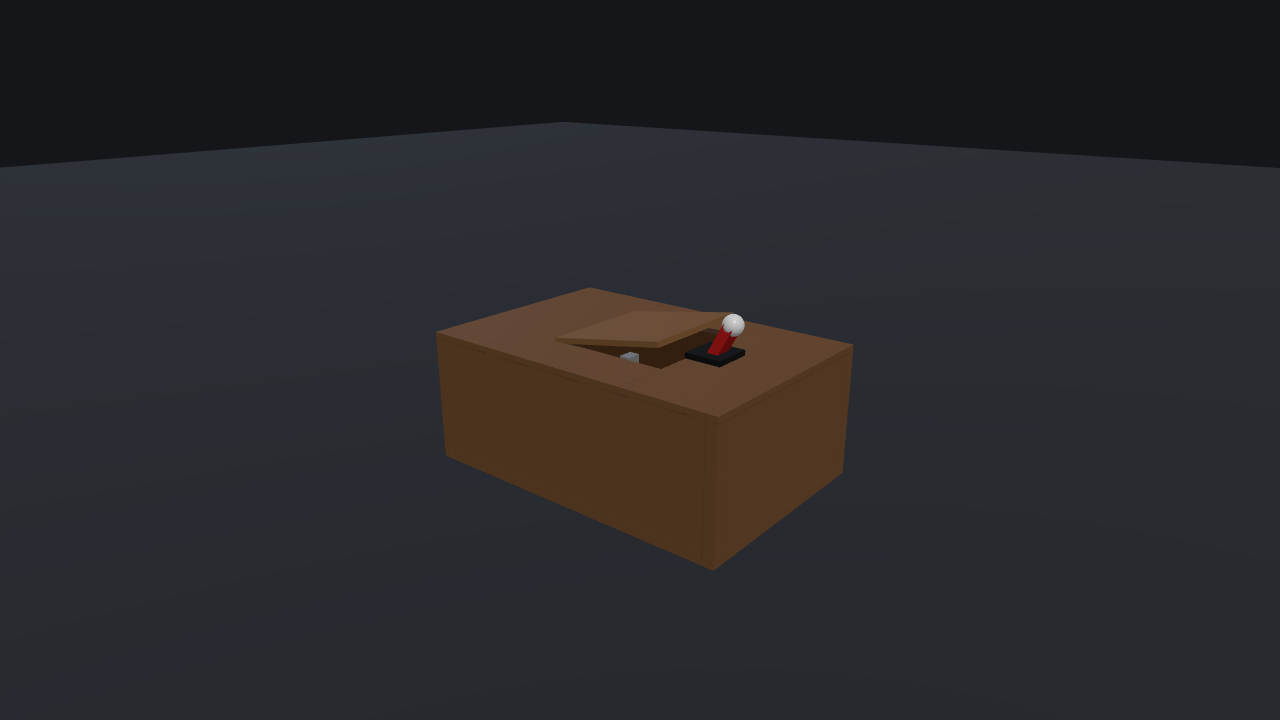
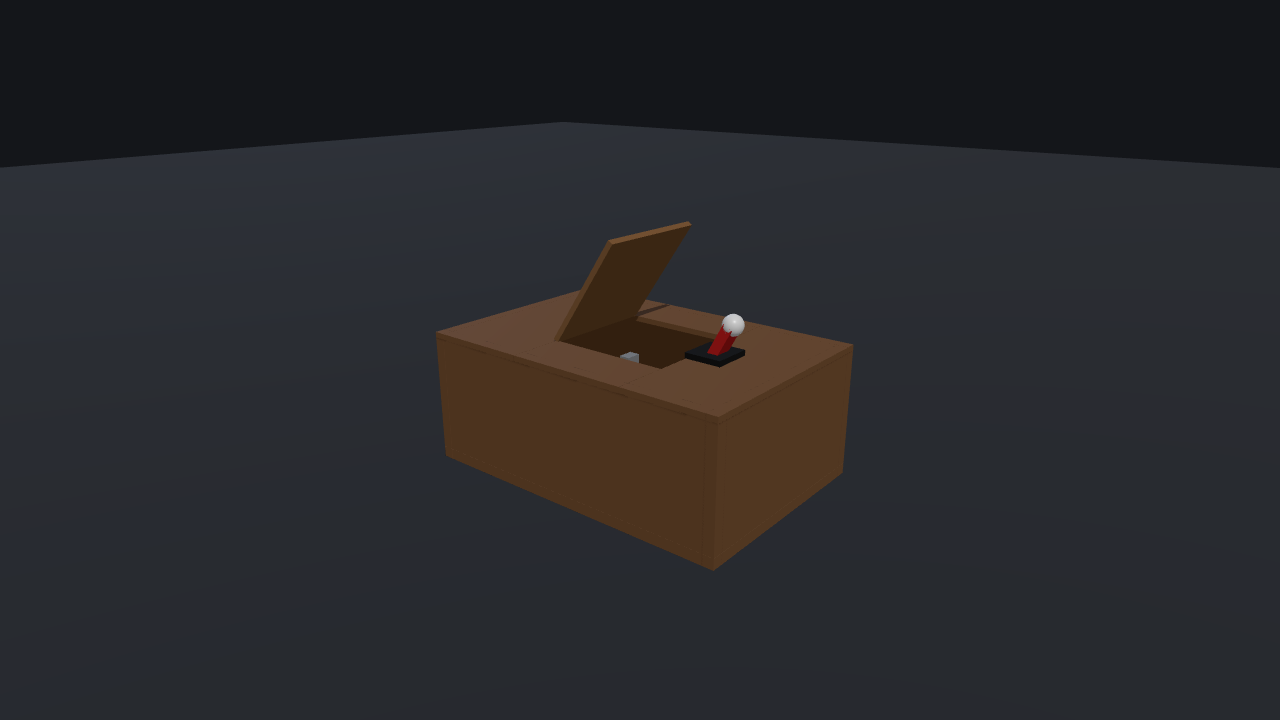
Take visual snapshots at real animation phase boundaries
The spec previously seeked to arbitrary fractions of the total runtime,
which didn't line up with the phases — the "knock-contact" frame actually
landed in the retract phase, etc. Expose the machine's phase timeline
(UselessMachine.phases) through the test hook and resolve each snapshot
from a named phase boundary instead:

  lid-open       end of lidOpen   (lid fully raised)
  arm-reached    end of reach     (arm at the switch, still ON)
  switch-knocked end of knock     (lever pushed to OFF)
  arm-retracted  end of retract   (arm withdrawn)
  lid-closing    mid lidClose     (closing motion)

Now arm-reached and switch-knocked capture the distinct ON/OFF states.
Rename the snapshots accordingly and document the mapping in the README.

Changed region(s): [[0.4375, 0.3056, 0.5625, 0.4889]]

diff --git a/tests/visual.spec.ts b/tests/visual.spec.ts
@@ -1,9 +1,17 @@
 import { test, expect, type Page } from "@playwright/test";
 
+interface Phase {
+  name: string;
+  start: number;
+  end: number;
+  mid: number;
+}
+
 // The deterministic hook exposed by src/main.ts in `?test` mode.
 interface UselessHook {
   ready: boolean;
   sequenceSeconds: number;
+  phases: Phase[];
   frameAt: (seconds: number) => void;
   idle: () => void;
 }
@@ -14,10 +22,10 @@ declare global {
   }
 }
 
-async function gotoScene(page: Page): Promise<number> {
+async function gotoScene(page: Page): Promise<Phase[]> {
   await page.goto("/?test=1");
   await page.waitForFunction(() => window.__useless?.ready === true);
-  return page.evaluate(() => window.__useless.sequenceSeconds);
+  return page.evaluate(() => window.__useless.phases);
 }
 
 const canvas = (page: Page) => page.locator("#app canvas");
@@ -29,20 +37,29 @@ test.describe("useless machine — visual states", () => {
     await expect(canvas(page)).toHaveScreenshot("idle.png");
   });
 
-  // Key moments across the sequence, as fractions of its total length.
-  const moments: Array<{ name: string; at: number }> = [
-    { name: "lid-opening", at: 0.15 },
-    { name: "arm-reaching", at: 0.45 },
-    { name: "knock-contact", at: 0.62 },
-    { name: "arm-retracting", at: 0.8 },
-    { name: "lid-closing", at: 0.95 },
+  // The genuine key points of the routine, taken at exact phase boundaries
+  // (the state each phase achieves) plus the mid-point of the closing motion.
+  // `seconds` is resolved per-phase from the machine's own timeline.
+  const keyPoints: Array<{
+    name: string;
+    phase: string;
+    at: "end" | "mid";
+  }> = [
+    { name: "lid-open", phase: "lidOpen", at: "end" }, // lid fully raised
+    { name: "arm-reached", phase: "reach", at: "end" }, // arm out, at the switch
+    { name: "switch-knocked", phase: "knock", at: "end" }, // lever pushed to OFF
+    { name: "arm-retracted", phase: "retract", at: "end" }, // arm withdrawn
+    { name: "lid-closing", phase: "lidClose", at: "mid" }, // lid mid-close
   ];
 
-  for (const m of moments) {
-    test(m.name, async ({ page }) => {
-      const total = await gotoScene(page);
-      await page.evaluate((s) => window.__useless.frameAt(s), m.at * total);
-      await expect(canvas(page)).toHaveScreenshot(`${m.name}.png`);
+  for (const k of keyPoints) {
+    test(k.name, async ({ page }) => {
+      const phases = await gotoScene(page);
+      const phase = phases.find((p) => p.name === k.phase);
+      expect(phase, `phase "${k.phase}" exists`).toBeDefined();
+      const seconds = phase![k.at];
+      await page.evaluate((s) => window.__useless.frameAt(s), seconds);
+      await expect(canvas(page)).toHaveScreenshot(`${k.name}.png`);
     });
   }
 });

diff --git a/src/UselessMachine.ts b/src/UselessMachine.ts
@@ -329,6 +329,25 @@ export class UselessMachine {
     return Object.values(PHASE_SECONDS).reduce((a, b) => a + b, 0);
   }
 
+  /**
+   * The animation phases with their absolute start/end times (seconds). Lets
+   * callers (e.g. visual tests) seek to the exact key moments of the routine
+   * rather than guessing at fractions of the total runtime.
+   */
+  static get phases(): ReadonlyArray<{
+    name: string;
+    start: number;
+    end: number;
+    mid: number;
+  }> {
+    let t = 0;
+    return Object.entries(PHASE_SECONDS).map(([name, duration]) => {
+      const start = t;
+      t += duration;
+      return { name, start, end: t, mid: start + duration / 2 };
+    });
+  }
+
   private startSequence(): void {
     this.sequence = [
       // Open the lid.

diff --git a/src/main.ts b/src/main.ts
@@ -144,6 +144,7 @@ function setupTestMode(): void {
   (window as any).__useless = {
     ready: true,
     sequenceSeconds: UselessMachine.sequenceSeconds,
+    phases: UselessMachine.phases,
     frameAt,
     idle,
   };

diff --git a/README.md b/README.md
@@ -54,9 +54,22 @@ npm run test:visual:update   # regenerate baselines after an intended change
 
 [`tests/visual.spec.ts`](tests/visual.spec.ts) drives the scene through a
 deterministic hook (`?test` mode in [`src/main.ts`](src/main.ts) exposes
-`window.__useless.frameAt(seconds)`), so each screenshot captures an exact
-animation moment — idle, lid opening, arm reaching, knock/contact, retracting,
-closing — with no real-time races. WebGL is forced onto SwiftShader (software
+`window.__useless.frameAt(seconds)` plus `window.__useless.phases`, the
+machine's own phase timeline). Each screenshot is taken at a genuine key point
+of the routine — resolved from the phase boundaries rather than guessed
+fractions of the runtime — so the captured states are exact and correctly
+labelled:
+
+| snapshot | animation moment |
+| --- | --- |
+| `idle` | lid closed, switch off |
+| `lid-open` | end of the lid-open phase |
+| `arm-reached` | arm out at the switch, still ON |
+| `switch-knocked` | lever pushed to OFF |
+| `arm-retracted` | arm withdrawn, lid still open |
+| `lid-closing` | mid lid-close |
+
+There are no real-time races. WebGL is forced onto SwiftShader (software
 rendering) in [`playwright.config.ts`](playwright.config.ts) so output is
 reproducible across machines with different GPUs.
 